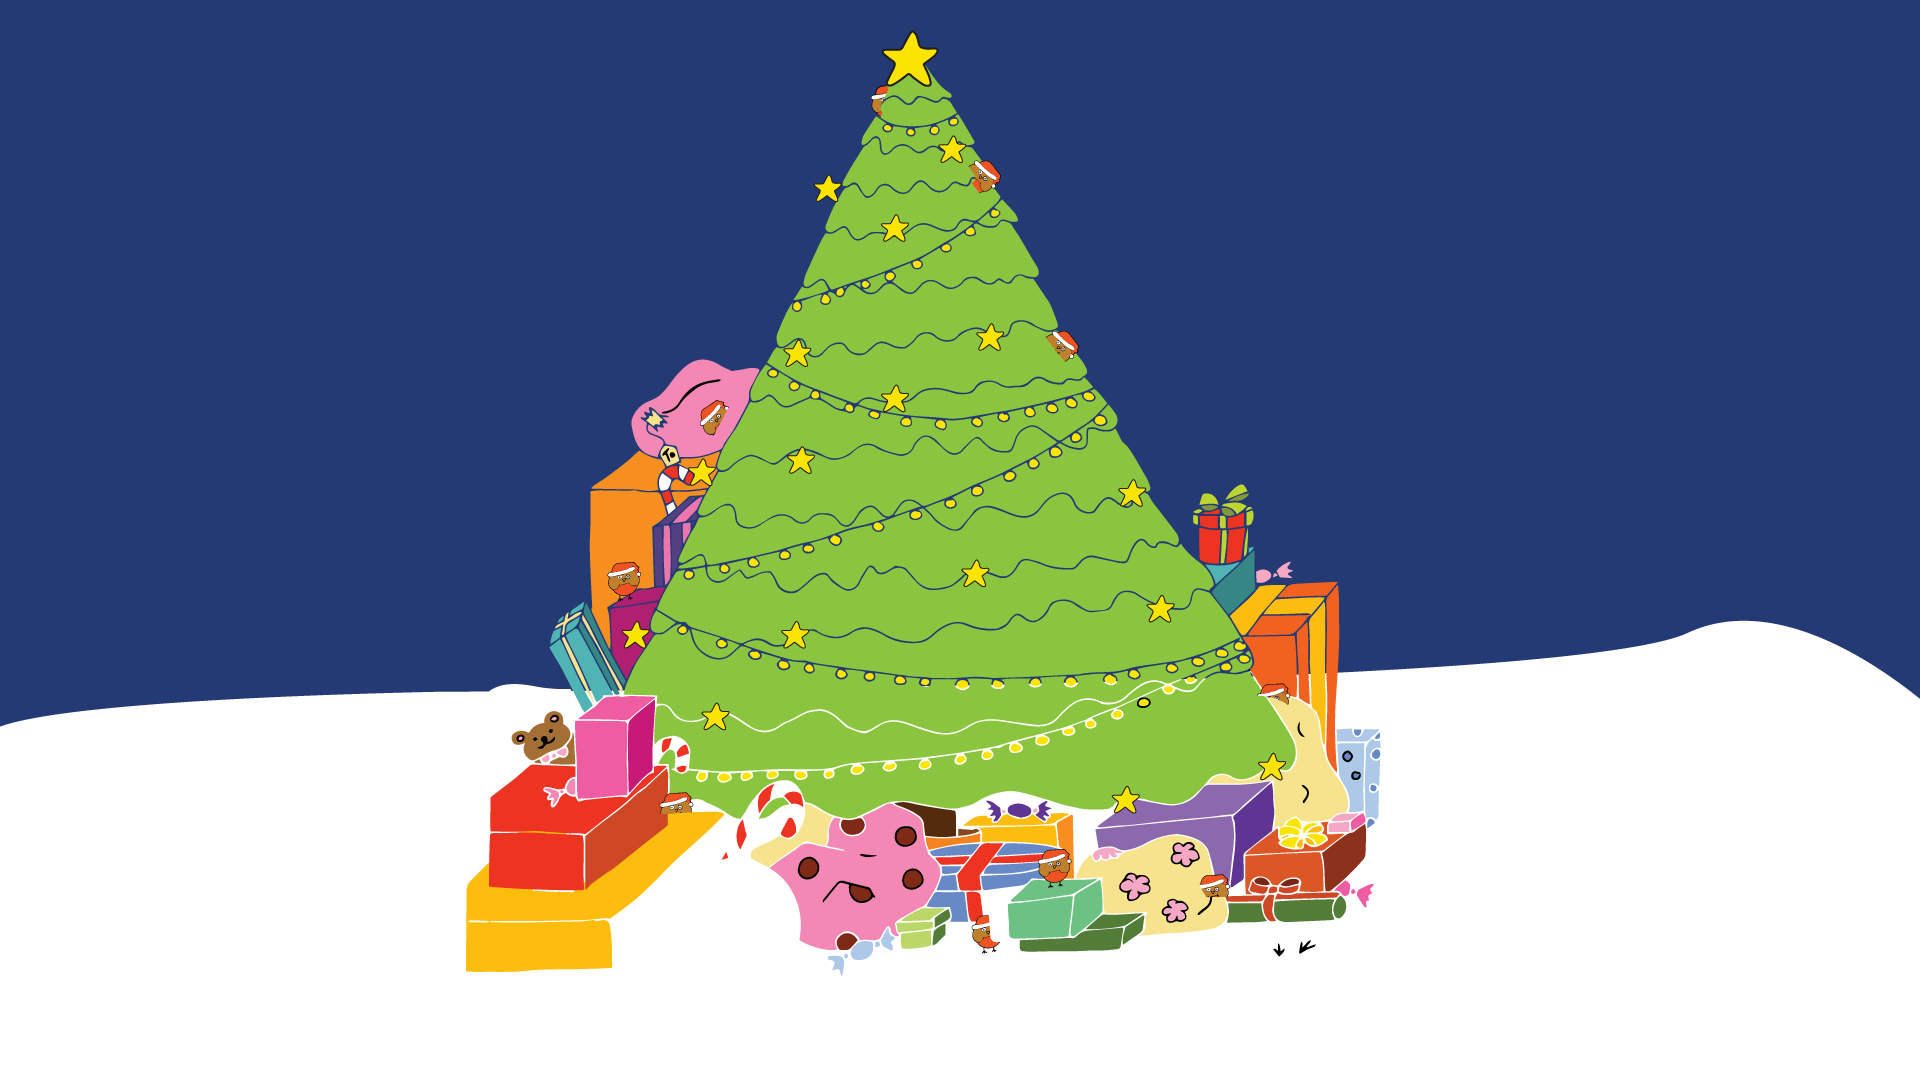
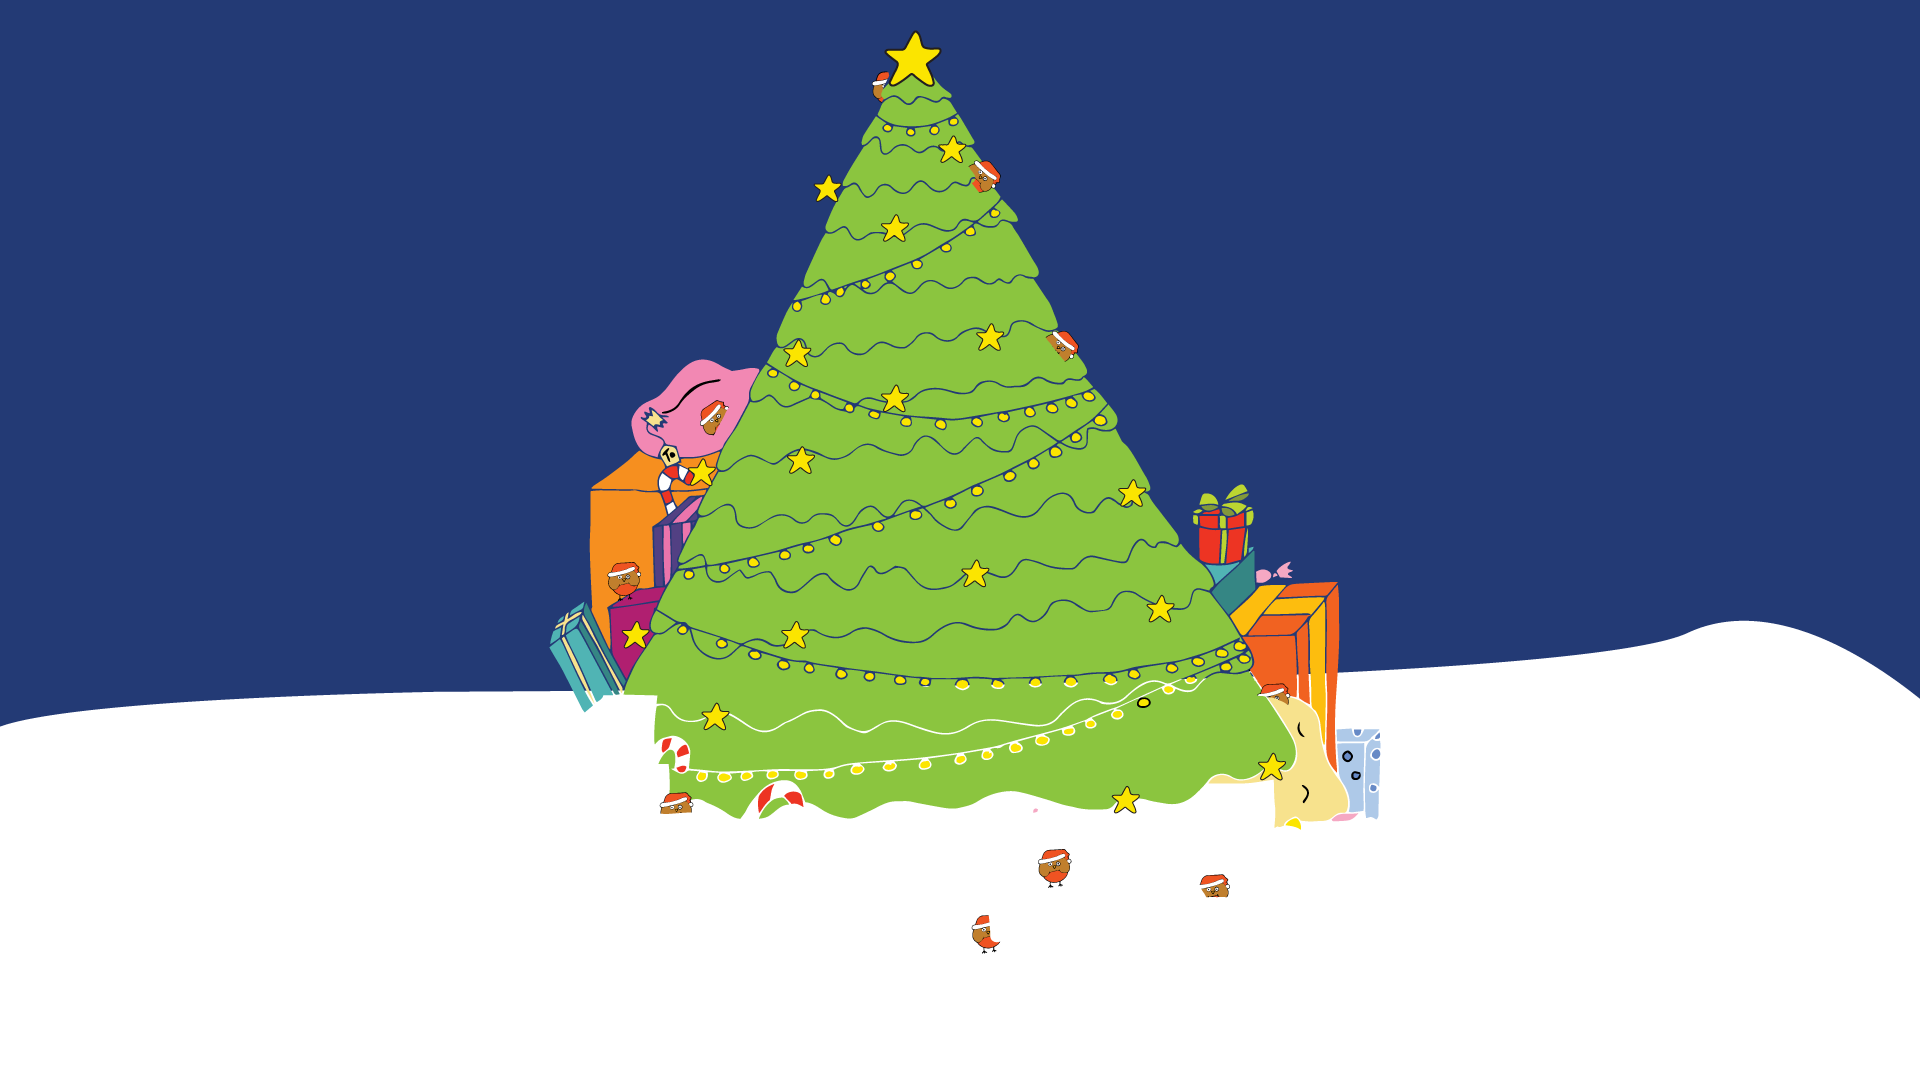
Add background

Changed region(s): [[0.2188, 0.6417, 0.7188, 0.9167], [0.4375, 0.0306, 0.5, 0.0917], [0.25, 0.6111, 0.2812, 0.6417]]

diff --git a/js/p5Canvas.js b/js/p5Canvas.js
@@ -1,7 +1,7 @@
 import Particle from '@/js/Particle'
 import Firework from '@/js/Firework'
 
-const HANDS_THRESHOLD = 70
+const HANDS_THRESHOLD = 50
 const MAX_SNOW_NUM = 250;
 let p5;
 let angle;
@@ -13,6 +13,9 @@ let human;
 let humanPos;
 let frontImage;
 let fireworks = [];
+let bgImg;
+let whiteBgImg;
+
 
 
 export function mainCanvas(_p5) {
@@ -23,6 +26,8 @@ export function mainCanvas(_p5) {
 		// NOTE: staticフォルダから参照
 		human = p5.loadImage('img/human.png');
 		frontImage = p5.loadImage('img/front.png')
+		bgImg = p5.loadImage('img/background.png')
+		whiteBgImg = p5.loadImage('img/white.png')
 	}
 
 	p5.keyPressed = (keyCode) => {
@@ -55,6 +60,8 @@ export function mainCanvas(_p5) {
 	p5.draw = _ => {
 		p5.clear();
 		p5.colorMode(p5.RGB);
+		p5.image(bgImg, 0, 0, p5.width, p5.height);
+		// p5.image(whiteBgImg, 0, 0, p5.width, p5.height);
 		drawSnow(particleBack);
 		p5.image(human, humanPos.x, humanPos.y);
 
